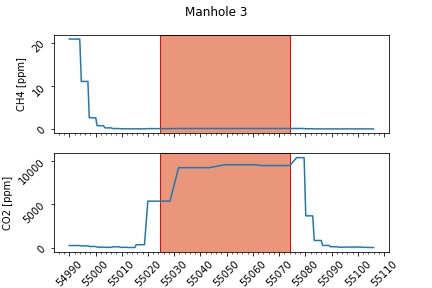
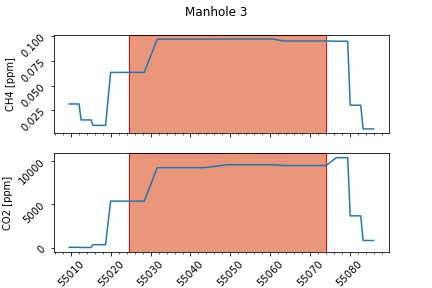
Correction csv files
Correction because of faulty notation

diff --git a/python_analysis.py b/python_analysis.py
@@ -144,12 +144,12 @@ plt.savefig('fit_subplots.pdf')
     
 #print(lin_reg(5,plot=True))
 
-#params=[[],[]]
-#for i in range(len(t_end)):
-#    popt=lin_reg(i, plot=False)
-#    params[0].append(popt[0])
-#    params[1].append(popt[1])
-#print(params[0])#print regression slope values for all manholes
+params=[[],[]]
+for i in range(len(t_end)):
+    popt=lin_reg(i, plot=False)
+    params[0].append(popt[0])
+    params[1].append(popt[1])
+print(params[0])#print regression slope values for all manholes
 
 #plt.scatter(range(len(params[0])),params[0])
 #plt.yscale('log')
@@ -184,8 +184,6 @@ cax = divider.append_axes("right", size="2%", pad=0.05)
 cbar = plt.colorbar(plot, cax=cax)
 cbar.set_label("ppm/ppm")
 
-#%%
-print(t_end)
 
 #%%Save data to csv file
 
@@ -244,7 +242,7 @@ for i in range(len(t_end)):
     area_CO2 = axs[1].axvspan(t_min,t_max,color='darksalmon',ec='red')
 
     #Plot data little before and after ToI
-    overshoot = 30 #Amount of datapoints overshoot before and after time of interest
+    overshoot = 10 #Amount of datapoints overshoot before and after time of interest
     times_plot = times[int(i_start-overshoot):int(i_end+overshoot)] #Timespan that is plotted
     CH4 = df['CH4_dry'][int(i_start-overshoot):int(i_end+overshoot)]-CH4_bg #Select data
     CO2 = df['CO2_dry'][int(i_start-overshoot):int(i_end+overshoot)]-CO2_bg #Select data
